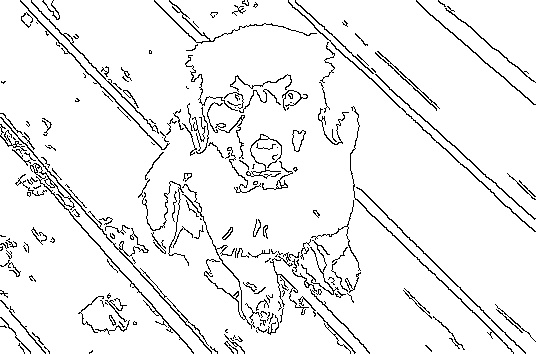
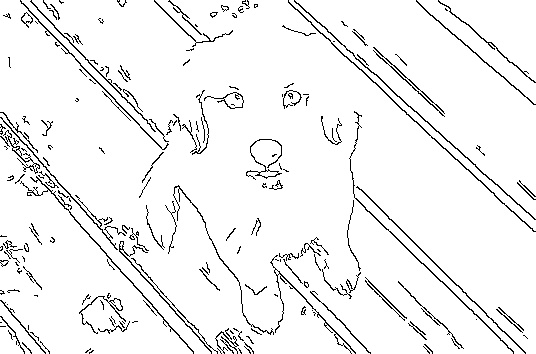
k means update
cleaner code for k means, sample clustering

diff --git a/post.py b/post.py
@@ -1,0 +1,37 @@
+import cv2 as cv
+import numpy as np
+from sklearn.cluster import KMeans #Kmeans: Minimize tot sq distance(data to centeroid)
+from sklearn.utils import shuffle
+#https://scikit-learn.org/stable/modules/generated/sklearn.cluster.KMeans.html#sklearn.cluster.KMeans.fit_predict
+
+
+def sklearn_kmeans(my_image_array, p):
+    array_sample = shuffle(my_image_array, random_state=0)[:1000]
+    kmeans = KMeans(n_clusters = p, random_state=0).fit(array_sample)
+    inds = kmeans.predict(my_image_array) #index of cluster each pixel belongs to
+    key_colors=[] #list of tuples rgb
+    for i in range(p):
+        key_color = tuple((kmeans.cluster_centers_[i]).astype(np.int64))
+        key_colors.append(key_color)
+    return key_colors, inds
+
+def form_picture(key_colors, ind_per_px, width, height, channels):
+    img_out = np.zeros((width, height, channels))
+    pix_loc = 0
+    for x in range(width):
+        for y in range(height):
+            corr_new_color_ind = int(ind_per_px[pix_loc])
+            img_out[x, y] = key_colors[corr_new_color_ind]
+            pix_loc+=1
+    return img_out
+
+def posteriz(file_name, p):
+    my_image = np.array(cv.imread(file_name))
+    width, height, channels = tuple(my_image.shape)
+    my_image_array = np.reshape(my_image, (width * height, channels))
+    #print(len(my_image_array))
+    kmeans_out_tuple = sklearn_kmeans(my_image_array, p)
+    #print(kmeans_out_tuple)
+    img_out = form_picture(kmeans_out_tuple[0], kmeans_out_tuple[1], width, height, channels)
+    cv.imwrite("poster.jpg", img_out)
+    return

diff --git a/conv_canny.py b/conv_canny.py
@@ -1,4 +1,4 @@
-import posterize
+import post
 import cv2 as cv
 import numpy as np
 
@@ -17,12 +17,11 @@ def print_edges_contours(img):
 
     canvas = create_canvas(img)
 
-    #smooth image here
     blurred_img = cv.GaussianBlur(img, (3,3), 1, 1)
     #Canny(InputArray image, OutputArray edges,
     #double threshold1, double threshold2, int apertureSize = 3,bool L2gradient = false )
     #https://stackoverflow.com/questions/63543033/does-cv2-canny-perform-a-gaussian-blur
-    edges = cv.Canny(blurred_img,100,200)
+    edges = cv.Canny(blurred_img,100,170)
     contours, hierarchy = cv.findContours(edges, cv.RETR_TREE, cv.CHAIN_APPROX_SIMPLE)
     img_w_cntrs = cv.drawContours(canvas, contours, -1, (0,255,0), 1)
 

diff --git a/main_test.py b/main_test.py
@@ -1,14 +1,15 @@
-from posterize import*
+from post import posteriz
 from conv_canny import*
 import timeit
 
-posterize.posterize("puppy.jpg", 5)
+#posteriz("puppy.jpg", 5)
 
 # cv::IMREAD_UNCHANGED = -1,
 # cv::IMREAD_GRAYSCALE = 0,
 # cv::IMREAD_COLOR = 1,
-img = cv.imread('poster.jpg', 0)
 
+#img = cv.imread('poster.jpg', 0)
+img = cv.imread('puppy.jpg', 0)
 start = timeit.default_timer()
 
 print_edges_contours(img)
